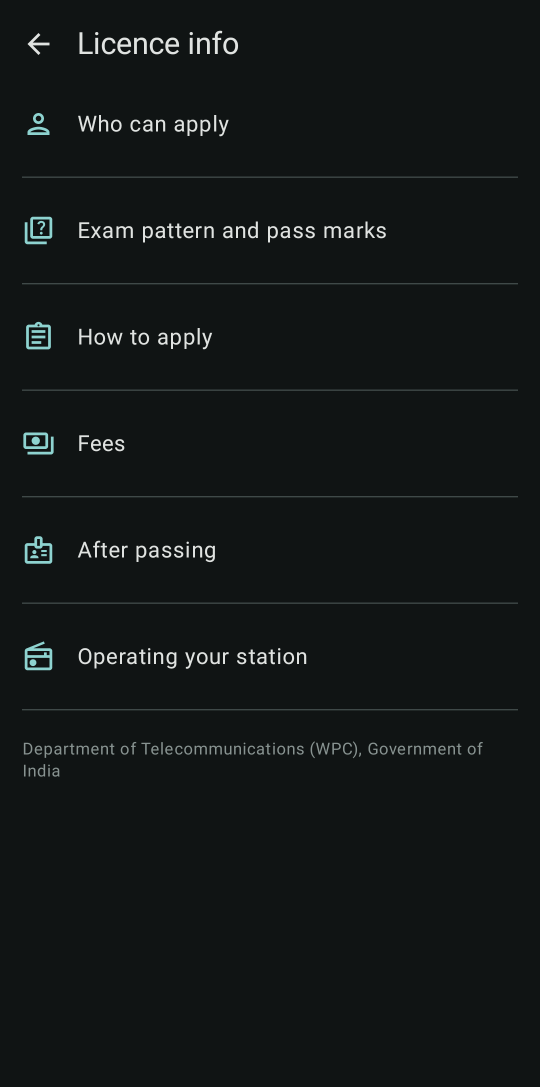
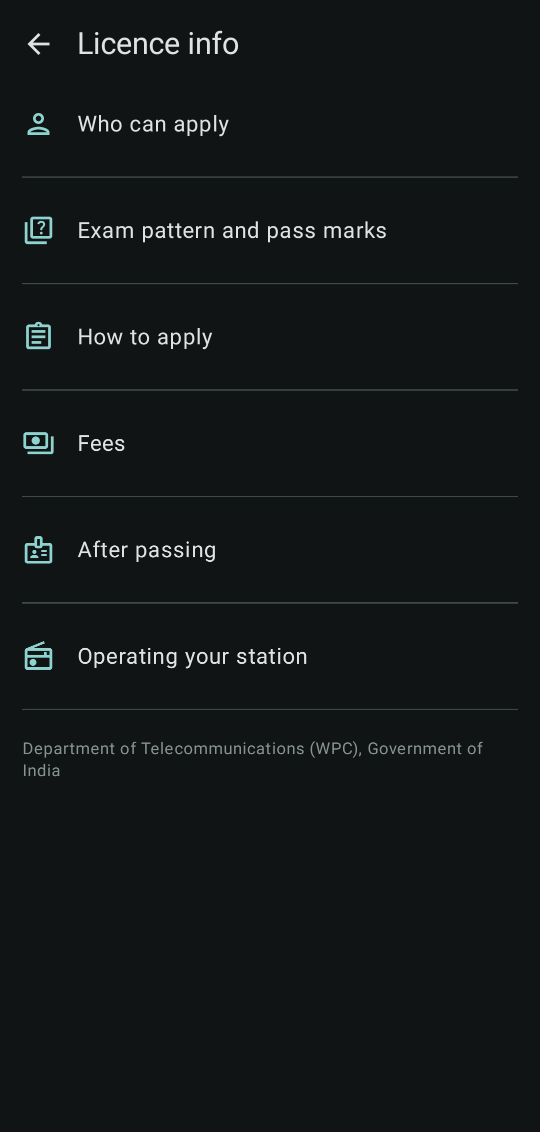
Fix top gap, hints closing on scroll, stray backslash; release 0.8.1
- Screens no longer pad for the status bar twice (empty band above titles)
- An opened hint in a paper stays open when its question scrolls away
- Remove the escaped apostrophe printed in one VU2MUE question
- Tests reset the live-results setting; regression tests for the fixes
- Guide screenshots regenerated

diff --git a/app/src/main/java/com/asocexamprep/ui/RadioPrepRoot.kt b/app/src/main/java/com/asocexamprep/ui/RadioPrepRoot.kt
@@ -8,6 +8,10 @@ import androidx.compose.material3.Icon
 import androidx.compose.material3.NavigationBar
 import androidx.compose.material3.NavigationBarItem
 import androidx.compose.material3.Scaffold
+import androidx.compose.foundation.layout.WindowInsets
+import androidx.compose.foundation.layout.WindowInsetsSides
+import androidx.compose.foundation.layout.only
+import androidx.compose.foundation.layout.systemBars
 import androidx.compose.material3.Text
 import androidx.compose.runtime.Composable
 import androidx.compose.runtime.getValue
@@ -52,6 +56,8 @@ fun RadioPrepRoot(startRoute: String = Tab.HOME.route) {
 
     Box(Modifier.fillMaxSize()) {
     Scaffold(
+        // Each screen's top app bar pads for the status bar itself; padding here too left an empty band.
+        contentWindowInsets = WindowInsets.systemBars.only(WindowInsetsSides.Horizontal + WindowInsetsSides.Bottom),
         bottomBar = {
             if (showBar) NavigationBar {
                 Tab.entries.forEach { tab ->

diff --git a/app/src/androidTest/java/com/asocexamprep/DocsScreenshots.kt b/app/src/androidTest/java/com/asocexamprep/DocsScreenshots.kt
@@ -44,8 +44,7 @@ class DocsScreenshots {
         val full = rule.onRoot().captureToImage().asAndroidBitmap()
         val top = rule.activity.window.decorView.rootWindowInsets?.getInsets(WindowInsets.Type.statusBars())?.top ?: 0
         val bottom = rule.activity.window.decorView.rootWindowInsets?.getInsets(WindowInsets.Type.navigationBars())?.bottom ?: 0
-        // The top app bar sits below an empty band as tall as the status bar: crop both.
-        val cropped = Bitmap.createBitmap(full, 0, 2 * top, full.width, full.height - 2 * top - bottom)
+        val cropped = Bitmap.createBitmap(full, 0, top, full.width, full.height - top - bottom)
         val scaled = Bitmap.createScaledBitmap(cropped, 540, cropped.height * 540 / cropped.width, true)
         val dir = File(app.filesDir, "docs-shots").apply { mkdirs() }
         File(dir, "$name.png").outputStream().use { scaled.compress(Bitmap.CompressFormat.PNG, 100, it) }

diff --git a/app/src/androidTest/java/com/asocexamprep/ExamUiTest.kt b/app/src/androidTest/java/com/asocexamprep/ExamUiTest.kt
@@ -181,6 +181,10 @@ class ExamUiTest {
         rule.onNodeWithTag("paper_list").performScrollToNode(hasTestTag("mq_hint_2"))
         rule.onNodeWithTag("mq_hint_2").performClick()
         rule.onNodeWithTag("mq_hint_2_panel").assertExists()
+        // Scrolled far away and back, the hint is still open.
+        rule.onNodeWithTag("paper_list").performScrollToNode(hasTestTag("mq_stem_30"))
+        rule.onNodeWithTag("paper_list").performScrollToNode(hasTestTag("mq_hint_2_panel"))
+        rule.onNodeWithTag("mq_hint_2_panel").assertExists()
         rule.onNodeWithTag("live_toggle").performClick() // back off for later tests
         rule.waitUntil(5_000) { !runBlocking { app.container.settings.settings.first().liveResults } }
         rule.onNodeWithTag("mock_submit").performClick()

diff --git a/app/src/main/java/com/asocexamprep/ui/exam/ExamScreens.kt b/app/src/main/java/com/asocexamprep/ui/exam/ExamScreens.kt
@@ -524,7 +524,8 @@ fun PaperScreen(kindKey: String, onTopic: (String) -> Unit, onMorse: () -> Unit,
                                     modifier = Modifier.testTag("mq_flag_$n"),
                                 )
                             }
-                            HintPanel(q, "mq_hint_$n", onTopic, onOpen = { hinted[q.id] = true })
+                            // Opened hints stay open when the question scrolls off screen and back.
+                            HintPanel(q, "mq_hint_$n", onTopic, startOpen = hinted[q.id] == true, onOpen = { hinted[q.id] = true })
                             HorizontalDivider(color = MaterialTheme.colorScheme.surfaceVariant)
                         }
                     }

diff --git a/app/src/test/java/com/asocexamprep/ContentPackTest.kt b/app/src/test/java/com/asocexamprep/ContentPackTest.kt
@@ -12,6 +12,11 @@ class ContentPackTest {
 
     @Test fun packIsValid() = assertEquals(emptyList<String>(), validate(pack))
 
+    @Test fun questionTextHasNoStrayEscapes() {
+        val bad = pack.questions.filter { q -> (listOf(q.stem) + q.options).any { '\\' in it } }.map { it.id }
+        assertEquals(emptyList<String>(), bad)
+    }
+
     @Test fun examRulesMatchSyllabus() {
         val general = pack.grade("GENERAL")!!
         val restricted = pack.grade("RESTRICTED")!!

diff --git a/app/src/androidTest/java/com/asocexamprep/TestSupport.kt b/app/src/androidTest/java/com/asocexamprep/TestSupport.kt
@@ -40,6 +40,7 @@ fun resetForTest(): FakeMorsePlayer = runBlocking {
     s.setTrainerStep(0)
     s.setCharWpm(20)
     s.setEffectiveWpm(8)
+    s.setLiveResults(false)
     app.container.voicePlayer = FakeVoicePlayer()
     FakeMorsePlayer().also { app.container.morsePlayer = it }
 }
